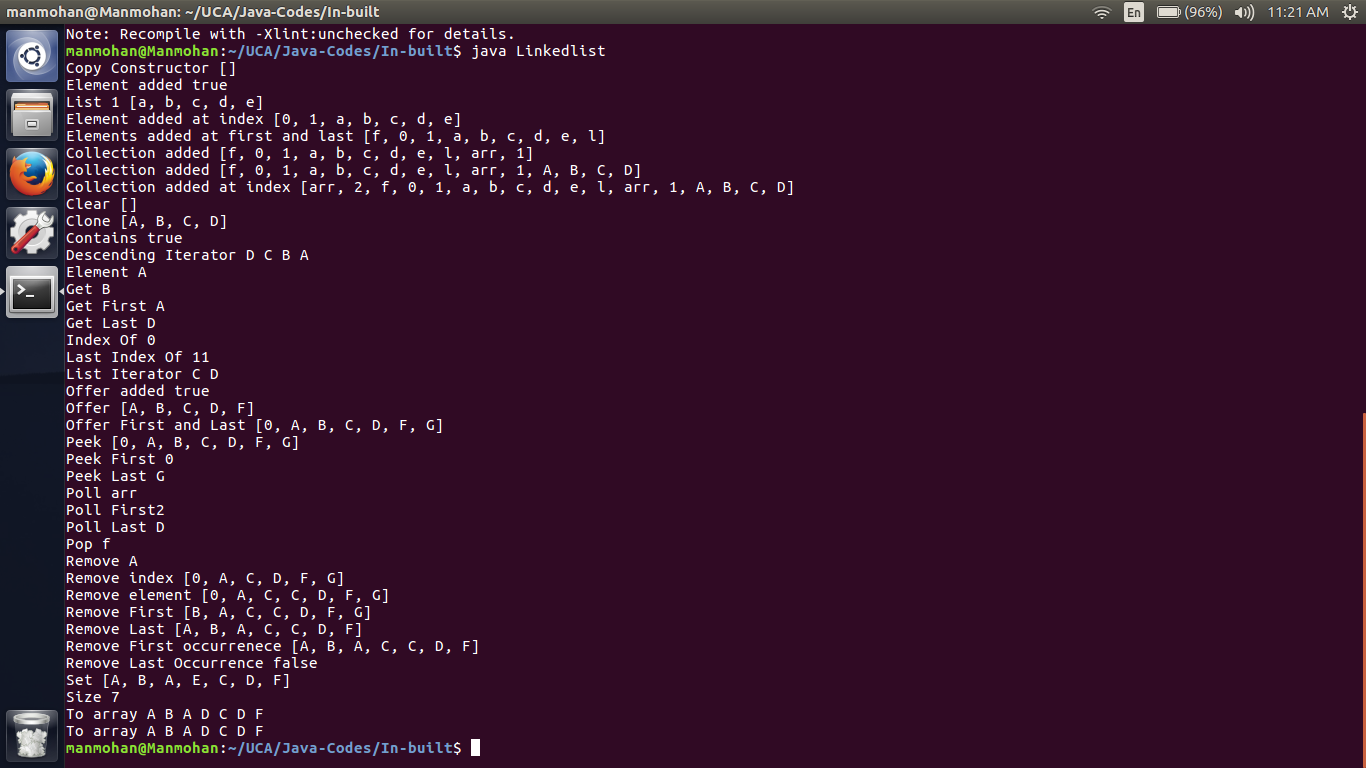
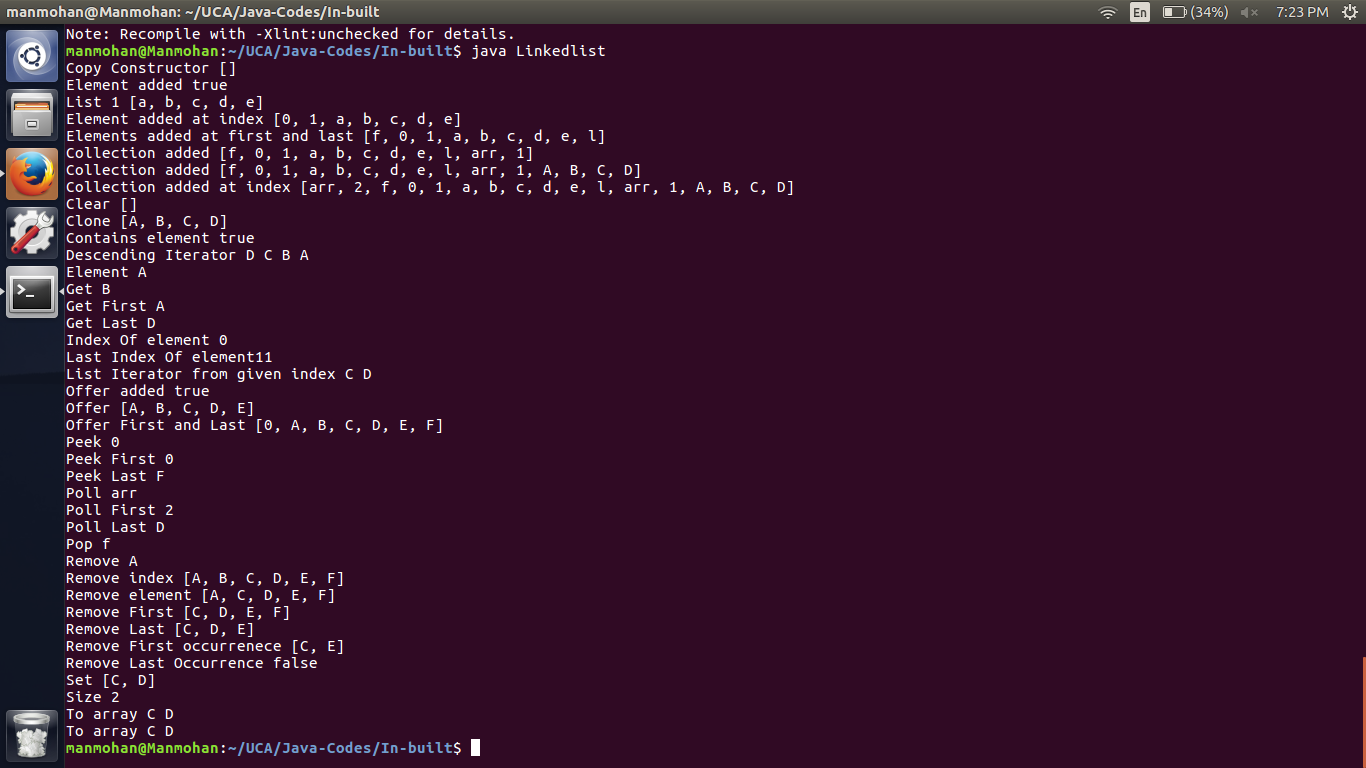
LinkedList with Output

diff --git a/In-built/Linkedlist.java b/In-built/Linkedlist.java
@@ -1,4 +1,5 @@
 import java.util.*;
+import java.lang.String;
 
 // Doubly LinkedList is created. Implements List and Deque
 class Linkedlist
@@ -73,9 +74,10 @@ class Linkedlist
         System.out.println("Clone " + col5);
 
         // contains(element) - returns boolean
-        System.out.println("Contains " + col3.contains("A"));
+        System.out.println("Contains element " + col3.contains("A"));
 
         // descendingIterator() - returns Iterator<E>
+        // returns the iterator from tail to head
         Iterator x = col3.descendingIterator();
         System.out.print("Descending Iterator ");
         while(x.hasNext())
@@ -100,35 +102,35 @@ class Linkedlist
         System.out.println("Get Last " + col3.getLast());    // returns the element at last position
 
         // indexOf(element) - returns int
-        System.out.println("Index Of " + l.indexOf("arr"));    // returns the index of first occurence of element if found else -1
+        System.out.println("Index Of element " + l.indexOf("arr"));    // returns the index of first occurence of element if found else -1
 
         // lastIndexOf(element) - returns int
-        System.out.println("Last Index Of " + l.lastIndexOf("arr"));    // returns the last index of element if found else -1
+        System.out.println("Last Index Of element" + l.lastIndexOf("arr"));    // returns the last index of element if found else -1
 
         // listIterator(index) - returns iterator starting from index Iterator<E>
         // If the list is altered(not using the iterator) after the iterator is created 
         // then it will throw an exception ConcurrenytModificationException
         // throws IndexOutOfBoundsException 
         Iterator itr = col3.listIterator(2);
-        System.out.print("List Iterator ");
+        System.out.print("List Iterator from given index ");
         while(itr.hasNext())
             System.out.print(itr.next() + " ");
         System.out.println();
         
         // offer(element) - returns boolean
-        System.out.println("Offer added " + col3.offer("F"));    // adds the element at the end of list
+        System.out.println("Offer added " + col3.offer("E"));    // adds the element at the end of list
         System.out.println("Offer " + col3);
 
         // offerFirst(element) - returns boolean
         col3.offerFirst("0");    // adds the element at the first position
 
         // offerLast(element) - returns boolean
-        col3.offerLast("G");
+        col3.offerLast("F");
         System.out.println("Offer First and Last " + col3);
 
         // peek() - returns Object of element
         // retrieves but not removes the head of list
-        System.out.println("Peek " + col3);    // returns null if list is empty
+        System.out.println("Peek " + col3.peek());    // returns null if list is empty
 
         // peekFirst() - returns object of element
         // same as peek()
@@ -144,7 +146,7 @@ class Linkedlist
 
         // pollFirst() - returns object of element
         // retrieves and removes the head of list
-        System.out.println("Poll First" + l.pollFirst());    // returns null is list is empty
+        System.out.println("Poll First " + l.pollFirst());    // returns null is list is empty
 
         // pollLast() - returns object of element
         // retrieves and removes the last element of the list
@@ -166,24 +168,20 @@ class Linkedlist
 
         // remove(index) - returns object of element
         // throws IndexOutOfBoundsException
-        col3.remove(2);    // removes the element at index
+        col3.remove(0);    // removes the element at index
         System.out.println("Remove index " + col3);
-        col3.add(2,"C");
 
         // remove(element) - returns boolean
         col3.remove("B");
         System.out.println("Remove element " + col3);
-        col3.add(1,"B");
 
         // removeFirst() - returns object of element
         col3.removeFirst();    // remove and returns the first element
         System.out.println("Remove First " + col3);
-        col3.add(0,"A");
 
         // removeLast() - returns object of element
         col3.removeLast();    // remove and return the last element
         System.out.println("Remove Last " + col3);
-        col3.add(3,"D");
 
         // removeFirstOccurrence(Object o) - returns boolean
         // removes the first occurrence of object o
@@ -196,9 +194,8 @@ class Linkedlist
 
         // set(index, element) - returns old element
         // throws IndexOutOfBoundsException
-        col3.set(3, "E");
+        col3.set(1, "D");
         System.out.println("Set " + col3);
-        col3.set(3, "D");
 
         // size() - returns int
         System.out.println("Size " + col3.size());    // returns the number of elements

diff --git a/In-built/String.java b/In-built/String.java
@@ -1,0 +1,101 @@
+import java.lang.String;
+
+class string
+{
+    public static void main(String[] args)
+    {
+        String s = new String();
+
+        String s1 = s;
+
+        // new String(char[] char)
+        char[] hello = {'H', 'e', 'l', 'l', 'o'};
+        String s2 = new String(hello);  // s2 = Hello
+
+        // new String(char[] char, startIndex, numOfChars)
+        String s3 = new String(hello, 1, 3);  // s3 = ell
+        
+        // new String(String)
+        String s4 = new String(s3);  // s4 = ell
+
+        // new String(byte[] ascii)
+        byte[] ascii = {65, 66, 67, 68};
+        String s5 = new String(ascii);  // s5 = ABCD
+
+        // new String(byte[] ascii, startIndex, numOfChars)
+        String s6 = new String(ascii, 1, 2);  //s6 = BC
+
+        // char charAt(index)
+        s2.charAt(1);
+
+        // int compareTo(Object o)
+        s2.compareTo(s3);  //  - if s2 < s3
+                           //  0 if s3 = s2
+                           //  + if s2 > s3
+
+        // int compareTo(String)
+        // same as above
+
+        // int compareToIgnoreCase(String)
+        s2.compareToIgnoreCase(s4);  // ignores case differences
+
+        // String concat(String str)
+        s2.concat(s4);
+        "My name is ".concat("Manmohan");
+
+        // boolean contentEquals(StringBuffer sb)
+        // returns s3 == s4
+        s3.contentEquals(new StringBuffer(s4));  //true
+        
+        // static String copyValueOf(char[] data)
+        // replaces the current string with new value
+        s4.copyValueOf(hello);  // Hello
+
+        // boolean endsWith(String)
+        s5.endsWith("D");  // true
+
+        // boolean equals(Object o)
+        s3.equals(s4);  // true
+
+        // boolean equalsIgnoreCase(String)
+        s3.equals(s4); // true
+
+        // byte[] getBytes()
+        byte[] arr = s5.getBytes();  // arr = {65, 66, 67, 68}
+
+        // void getChars(int srcBegin, int srcEnd, char[] str, int destBegin)
+        char[] str = new char[7];
+        s2.getChars(0, 4, str, 0);  // str = {'h', 'e', 'l', 'l', 'o'}
+
+        // int indexOf(char ch)
+        // if not found returns -1
+        s3.indexOf('e');  // returns 0
+
+        // int indexOf(char ch, int fromIndex)
+        // searching starts from fromIndex (inclusive)
+        s2.indexOf('l', 3);  // returns 3
+
+        // int indexOf(String str)
+        s2.indexOf("lo");  // returns 3
+
+        // int indexOf(String str, int fromIndex)
+        s2.indexOf("llo", 1);  // returns 1
+
+        // int lastIndexOf(char ch)
+        s2.lastIndexOf('l');  // returns 3
+
+        // int lastIndexOf(char ch, int fromIndex)
+        s2.lastIndexOf('l', 2);  // returns 3
+
+        // int lastIndexOf(String str)
+        s2.lastIndexOf("ll");  // returns 2
+
+        // int lastIndexOf(String str, int fromIndex)
+        s2.lastIndexOf("ll", 3);  // returns -1
+
+        // int length()
+        System.out.println(s3.length());
+
+
+    }
+}
